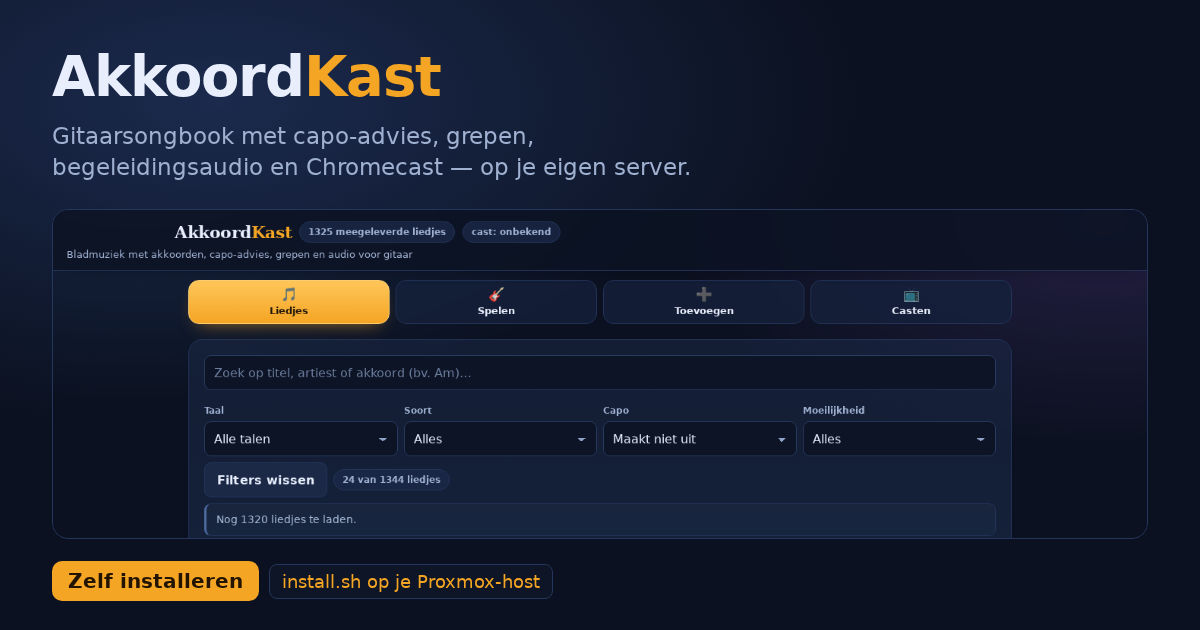
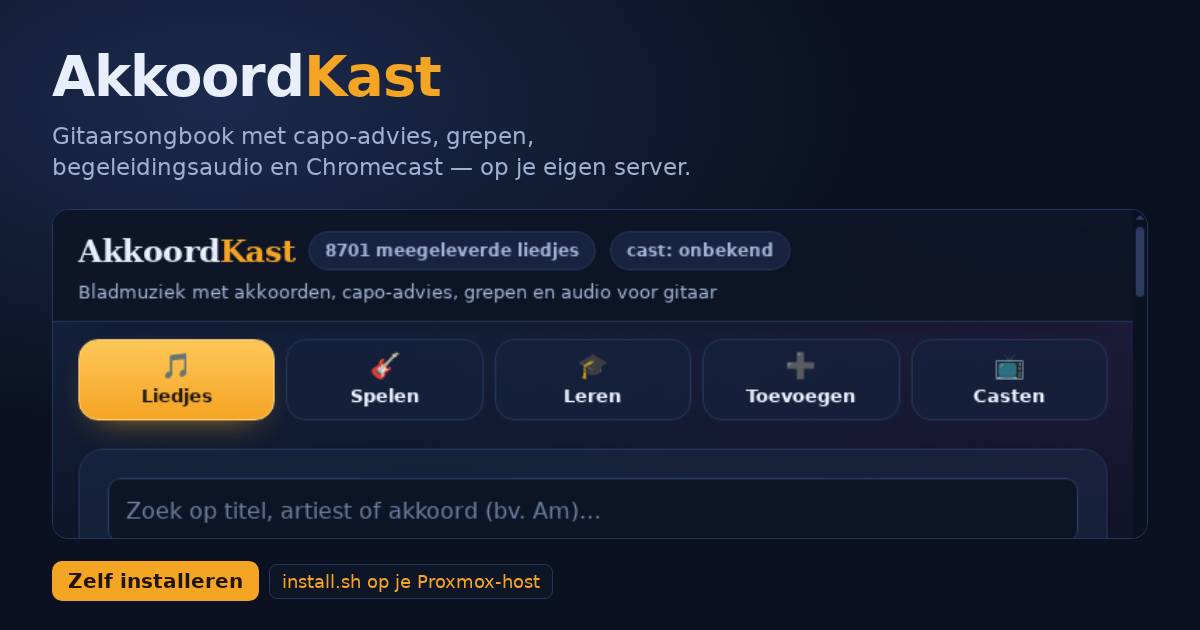
Hero en social card bijgewerkt naar 8.701 liedjes en de gitaarcursus
De banner noemde nog 8.680 liedjes en de cursus stond er niet op, terwijl dat nu
een van de grote onderdelen is.

diff --git a/scripts/maak-beeld.py b/scripts/maak-beeld.py
@@ -75,13 +75,12 @@ def hero():
         <h1>Akkoord<span class="amber">Kast</span></h1>
         <p class="sub">Bladmuziek voor gitaar met akkoorden,<br>capo-advies, grepen, noten en audio.</p>
         <div class="doos">
-          <span class="sterk">8.680 liedjes, vrij van rechten</span>
+          <span class="sterk">8.701 liedjes, vrij van rechten</span>
           <span class="pil">capo-advies &amp; grepen</span>
-          <span class="pil">meespelen met de noten</span>
+          <span class="pil">meespelen met noten en tab</span>
+          <span class="pil">cursus: 26 gitaarlessen</span>
           <span class="pil">eigen muziekmap in &eacute;&eacute;n keer</span>
-          <span class="pil">314 liedjes met tekst</span>
-          <span class="pil">Spotify</span>
-          <span class="pil">Chromecast</span>
+          <span class="pil">Spotify &amp; Chromecast</span>
         </div>
         <p class="sub" style="font-size:20px;margin-top:20px">Draait op je eigen Proxmox&#8209;server &middot; mobiel en op de pc</p>
       </div>
